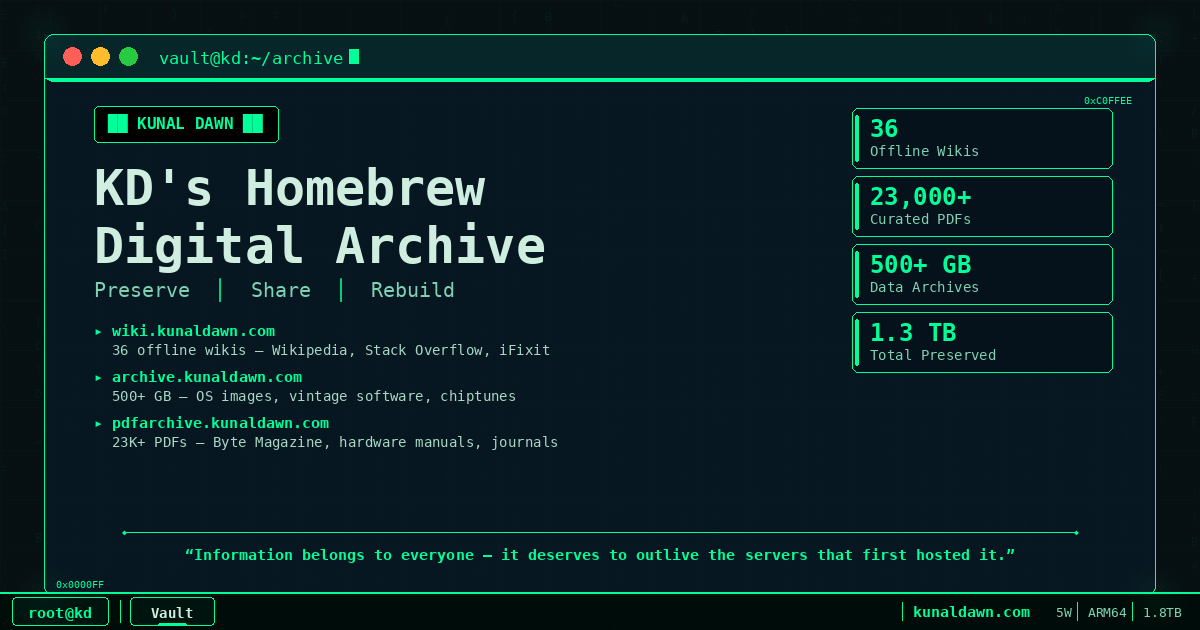
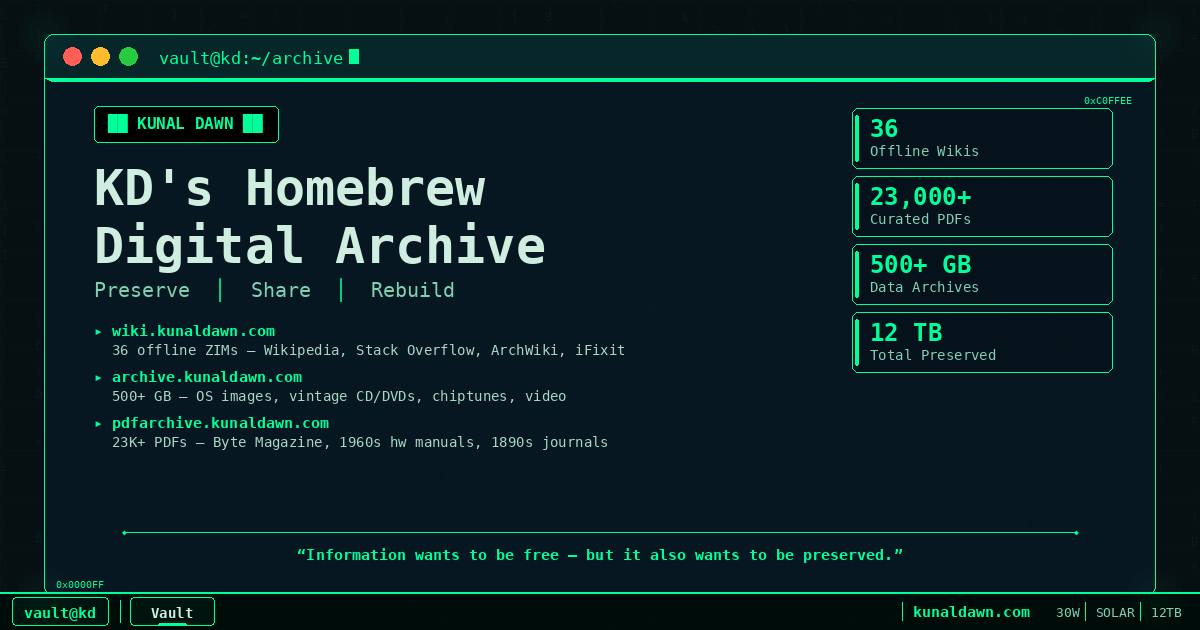
v20

diff --git a/static/index.html b/static/index.html
@@ -42,35 +42,43 @@
   <meta name="theme-color" content="#071013">
   <link rel="canonical" href="https://kunaldawn.com/">
 
+  <!-- Favicons (generated via generate_favicon.py) -->
+  <link rel="icon" href="/favicon.ico" sizes="any">
+  <link rel="icon" type="image/png" sizes="16x16" href="/favicon-16x16.png">
+  <link rel="icon" type="image/png" sizes="32x32" href="/favicon-32x32.png">
+  <link rel="icon" type="image/png" sizes="48x48" href="/favicon-48x48.png">
+  <link rel="apple-touch-icon" sizes="180x180" href="/apple-touch-icon.png">
+  <link rel="manifest" href="/site.webmanifest">
+
   <!-- Language declaration to prevent Chrome from detecting Japanese -->
   <meta http-equiv="content-language" content="en">
   <meta name="language" content="English">
 
   <!-- SEO Meta Tags -->
-  <meta name="description" content="KD's Homebrew Digital Archive — 1.3 TB of preserved knowledge running on a Raspberry Pi. 36 offline wikis (Wikipedia, Stack Overflow, iFixit), 23,000+ vintage computing PDFs (Byte Magazine, hardware manuals from the 1960s), and 500+ GB of OS images and software archives. Fighting link rot, one wget at a time.">
-  <meta name="keywords" content="digital archive, digital preservation, internet archival, offline wikipedia, offline stack overflow, vintage computing manuals, Byte Magazine archive, PDF archive, wiki archive, homebrew server, Raspberry Pi archive, open knowledge, knowledge preservation, iFixit offline, Project Gutenberg, data hoarding, digital history, self-hosted archive, personal archive project">
+  <meta name="description" content="KD's Homebrew Digital Archive — a home-grown mirror of the public internet. 12 TB of preserved knowledge served from a homelab cluster (2x Raspberry Pi 4 + N150 mini-PC) drawing ~30W off-grid solar. 36 offline wikis (Wikipedia, Stack Overflow, iFixit, Project Gutenberg), 23,000+ vintage computing PDFs (Byte Magazine, 1960s hardware manuals, MIT Press, science journals from the 1890s), 500+ GB of OS images, vintage software, and chiptunes. A shelf in a house, not a rack in a data centre. Fighting link rot, one wget at a time.">
+  <meta name="keywords" content="digital archive, digital preservation, internet archival, offline wikipedia, offline stack overflow, vintage computing manuals, Byte Magazine archive, PDF archive, wiki archive, abandonware preservation, homebrew server, homelab, Raspberry Pi cluster, N150 mini-PC, off-grid solar hosting, open knowledge, knowledge preservation, iFixit offline, Project Gutenberg, data hoarding, digital history, self-hosted archive, personal archive project, link rot">
   <meta name="author" content="Kunal Dawn">
   <meta name="robots" content="index, follow, max-snippet:-1, max-image-preview:large">
 
   <!-- Open Graph / Facebook -->
   <meta property="og:type" content="website">
   <meta property="og:url" content="https://kunaldawn.com/">
-  <meta property="og:title" content="KD's Homebrew Digital Archive — 1.3 TB of Knowledge Preserved on a Raspberry Pi">
-  <meta property="og:description" content="36 offline wikis. 23,000+ vintage computing PDFs. 500+ GB of OS images and software. A digital preservation project fighting link rot and bit decay — because information deserves to outlive the servers that first hosted it.">
+  <meta property="og:title" content="KD's Homebrew Digital Archive — 12 TB on a Homebrew Homelab">
+  <meta property="og:description" content="A home-grown mirror of the public internet. 36 offline wikis, 23,000+ vintage computing PDFs, 500+ GB of OS images and chiptunes — 12 TB total, served from a 2x RPi4 + N150 cluster on ~30W off-grid solar. A shelf in a house, not a rack in a data centre. Fighting link rot, one wget at a time.">
   <meta property="og:site_name" content="KD's Homebrew Archive">
   <meta property="og:image" content="https://kunaldawn.com/og-image.png">
   <meta property="og:image:width" content="1200">
   <meta property="og:image:height" content="630">
-  <meta property="og:image:alt" content="KD's Homebrew Digital Archive — Preserve, Share, Rebuild. 36 wikis, 23K+ PDFs, 500+ GB archives, 1.3 TB total.">
+  <meta property="og:image:alt" content="KD's Homebrew Digital Archive — Preserve, Share, Rebuild. 36 wikis, 23K+ PDFs, 500+ GB archives, 12 TB total.">
   <meta property="og:locale" content="en_US">
 
   <!-- Twitter -->
   <meta name="twitter:card" content="summary_large_image">
   <meta name="twitter:url" content="https://kunaldawn.com/">
-  <meta name="twitter:title" content="KD's Homebrew Digital Archive — 1.3 TB on a Raspberry Pi">
-  <meta name="twitter:description" content="36 offline wikis. 23K+ vintage computing PDFs. 500+ GB of digital artifacts. A homebrew preservation project fighting link rot — because information deserves to outlive its servers.">
+  <meta name="twitter:title" content="KD's Homebrew Digital Archive — 12 TB on a Homebrew Homelab">
+  <meta name="twitter:description" content="A home-grown mirror of the public internet. 36 offline wikis, 23K+ vintage computing PDFs, 500+ GB of digital artifacts — served from a 2x RPi4 + N150 cluster on ~30W. A shelf in a house, not a rack in a data centre. Fighting link rot, one wget at a time.">
   <meta name="twitter:image" content="https://kunaldawn.com/og-image.png">
-  <meta name="twitter:image:alt" content="KD's Homebrew Digital Archive — 36 wikis, 23K+ PDFs, 1.3 TB preserved">
+  <meta name="twitter:image:alt" content="KD's Homebrew Digital Archive — 36 wikis, 23K+ PDFs, 12 TB preserved">
 
   <!-- JSON-LD Structured Data -->
   <script type="application/ld+json">
@@ -85,8 +93,8 @@
         "name": "Kunal Dawn",
         "url": "https://kunaldawn.com"
       },
-      "description": "A homebrew digital preservation vault: 1.3 TB of offline wikis, vintage computing manuals, science journals, OS images, and software archives — curated and served from a single Raspberry Pi 4. Fighting link rot and bit decay since the bits started rotting.",
-      "keywords": "digital archive, digital preservation, internet archival, offline wikipedia, vintage computing, homebrew server, open knowledge, link rot, bit decay"
+      "description": "A home-grown mirror of the public internet — 12 TB of offline wikis, vintage computing manuals, science journals, OS images, and abandonware archives, curated and served from a homelab cluster (2x Raspberry Pi 4 + N150 mini-PC) drawing about 30 W off-grid solar. A shelf in a house, not a rack in a data centre. Fighting link rot, one wget at a time.",
+      "keywords": "digital archive, digital preservation, internet archival, offline wikipedia, vintage computing, abandonware, homelab, Raspberry Pi cluster, off-grid solar, open knowledge, link rot, bit decay"
     }
   </script>
   <script type="application/ld+json">
@@ -95,7 +103,7 @@
       "@type": "CollectionPage",
       "name": "KD's Homebrew Digital Archive",
       "url": "https://kunaldawn.com/",
-      "description": "1.3 TB of curated digital archives preserving knowledge from across the internet before it disappears. Offline wikis, vintage computing manuals, science journals, and software — open access, freely shared.",
+      "description": "12 TB of curated digital archives preserving knowledge from across the internet before it disappears. Offline wikis, vintage computing manuals, science journals, and software — open access, freely shared.",
       "about": {
         "@type": "Thing",
         "name": "Digital Preservation",
@@ -124,7 +132,7 @@
     }
   </script>
 
-  <title>KD's Homebrew Digital Archive — 1.3 TB of Knowledge Preserved on a Raspberry Pi</title>
+  <title>KD's Homebrew Digital Archive — 12 TB Preserved on a Home-grown Homelab</title>
   <link rel="preconnect" href="https://fonts.gstatic.com" crossorigin>
   <link href="https://fonts.googleapis.com/css2?family=Share+Tech+Mono&family=Inter:wght@300;400;600&display=swap"
     rel="stylesheet">
@@ -2953,7 +2961,7 @@
         </div>
         <div class="fx-footer"><span class="fx-chan">&gt; bbs/kd ·  node 01</span><span class="fx-timer" id="fx-timer">T+0.0s</span></div>
       </div>
-      <p class="entry-inventory sr-only">KD's Homebrew Digital Archive — 1.3 TB on a Raspberry Pi 4 ARM64 running on 5 watts. 23,000+ PDFs across 800 GB. 36 offline wikis including Wikipedia, Stack Overflow, ArchWiki, iFixit, and Project Gutenberg. 500 GB of operating system images, vintage software CD/DVD archives, chiptune collections, and curated video archives. Developed by Kunal Dawn with AI assistance.</p>
+      <p class="entry-inventory sr-only">KD's Homebrew Digital Archive — a home-grown mirror of the public internet. 12 TB of preserved knowledge served from a homelab cluster: two Raspberry Pi 4 nodes (8 GB) plus an N150 mini-PC (12 GB), on a 5-port switch fed from a single 65 W USB-C adapter. 4x 2 TB HDDs + 2x 2 TB SSDs hot, with a 12 TB external HDD for cold backup. About 30 watts total, engineered to run off-grid on a modest solar rig. 23,000+ PDFs across 800 GB. 36 offline wikis including Wikipedia, Stack Overflow, ArchWiki, iFixit, and Project Gutenberg. 500 GB of operating system images, vintage software CD/DVD archives, chiptune collections, and curated video archives. A shelf in a house, not a rack in a data centre. Developed by Kunal Dawn with AI assistance.</p>
       <h2 class="entry-gate-title" id="entry-gate-title">KD's Homebrew Digital Archive</h2>
 
       <div class="entry-terms" role="group" aria-label="Terms">
@@ -5048,12 +5056,13 @@
               playing:    ['*pounce*', 'Caught a byte!', '*bat bat bat*', 'Is that a cursor?!'],
               tips:       [
                 'Try the Wiki Archive for docs!',
-                'This vault runs on 5W of power',
+                'This archive runs on ~30W off-grid solar',
                 'Click me 3x for a surprise~',
                 'Everything here is archived via wget',
                 'The PDF archive has rare zines!',
                 'All content sourced from the open internet',
-                'Running on a Raspberry Pi 4!',
+                'Running on 2x RPi4 + N150 cluster!',
+                'A shelf in a house, not a rack in a DC',
                 'Data preserved, one bit at a time',
                 'Information wants to be free',
                 'Ctrl+Shift+I for hacker mode',

diff --git a/generate_favicon.py b/generate_favicon.py
@@ -1,0 +1,152 @@
+#!/usr/bin/env python3
+"""
+Generate the favicon set for KD's Homebrew Digital Archive.
+
+Requirements: pip install Pillow
+Font: DejaVu Sans Mono Bold (pre-installed on most Linux systems)
+
+Usage: python3 generate_favicon.py
+Output:
+  static/favicon.ico                    (multi-res: 16, 32, 48)
+  static/favicon-16x16.png
+  static/favicon-32x32.png
+  static/favicon-48x48.png
+  static/apple-touch-icon.png           (180x180)
+  static/android-chrome-192x192.png
+  static/android-chrome-512x512.png
+"""
+
+from PIL import Image, ImageDraw, ImageFont
+import os
+
+# ─── Config ───
+OUTDIR = os.path.join(os.path.dirname(__file__), "static")
+
+# Colors (match site CSS variables — see generate_og.py)
+BG     = (7, 16, 19)        # --bg: #071013
+PANEL  = (7, 24, 35)        # --panel: #071823
+NEON   = (0, 255, 153)      # --neon: #00ff99
+MUTED  = (127, 209, 179)    # --muted: #7fd1b3
+
+# Fonts
+FONT_BOLD_PATH = "/usr/share/fonts/truetype/dejavu/DejaVuSansMono-Bold.ttf"
+
+
+def bold(size):
+    return ImageFont.truetype(FONT_BOLD_PATH, size)
+
+
+def draw_mark(size):
+    """Render the "KD" monogram on a rounded neon-bordered panel at `size`x`size`.
+
+    Proportions (border thickness, padding, font scale) are derived from size
+    so the mark reads cleanly from 16px up to 512px. Below 24px the border is
+    dropped so the letters stay legible.
+    """
+    img = Image.new('RGBA', (size, size), (0, 0, 0, 0))
+    d = ImageDraw.Draw(img)
+
+    # Panel geometry
+    if size < 24:
+        pad = 0
+        border = 0
+        radius = max(1, size // 5)
+    else:
+        pad = max(1, round(size * 0.04))
+        border = max(1, round(size / 48))
+        radius = max(2, round(size * 0.2))
+
+    x0, y0 = pad, pad
+    x1, y1 = size - 1 - pad, size - 1 - pad
+
+    # Solid dark panel
+    d.rounded_rectangle([x0, y0, x1, y1], radius=radius, fill=PANEL)
+    # Neon border (skipped at very small sizes)
+    if border:
+        d.rounded_rectangle([x0, y0, x1, y1], radius=radius,
+                            outline=NEON, width=border)
+
+    # ─── "KD" glyph ───
+    # Target text width ~62% of inner width so the two letters sit in the
+    # middle without crowding the border.
+    inner_w = (x1 - x0) - 2 * border
+    inner_h = (y1 - y0) - 2 * border
+
+    text = "KD"
+    # Binary-search the largest font size that fits.
+    lo, hi = 6, size * 2
+    font = bold(lo)
+    tw = th = 0
+    bx = by = 0
+    while lo <= hi:
+        mid = (lo + hi) // 2
+        f = bold(mid)
+        bb = d.textbbox((0, 0), text, font=f)
+        w = bb[2] - bb[0]
+        h = bb[3] - bb[1]
+        target_w = inner_w * (0.72 if size < 24 else 0.56)
+        target_h = inner_h * (0.72 if size < 24 else 0.48)
+        if w <= target_w and h <= target_h:
+            font = f
+            tw, th, bx, by = w, h, bb[0], bb[1]
+            lo = mid + 1
+        else:
+            hi = mid - 1
+
+    # Center using actual bbox offsets (textbbox can return non-zero origin).
+    cx = (size - tw) // 2 - bx
+    cy = (size - th) // 2 - by
+    d.text((cx, cy), text, fill=NEON, font=font)
+
+    # ─── Accent: blinking-cursor underscore for larger sizes ───
+    # Adds a tiny terminal feel at sizes that can afford the detail.
+    # `cy` is the pen origin passed to d.text; the actual glyph bottom
+    # lands at `cy + by + th`, so anchor the cursor from there.
+    if size >= 96:
+        cur_w = max(2, size // 16)
+        cur_h = max(1, size // 64)
+        cur_x = (size - cur_w) // 2
+        cur_y = cy + by + th + max(2, size // 48)
+        if cur_y + cur_h < y1 - border:
+            d.rectangle([cur_x, cur_y, cur_x + cur_w, cur_y + cur_h], fill=NEON)
+
+    return img
+
+
+def save_png(img, name):
+    path = os.path.join(OUTDIR, name)
+    img.save(path, 'PNG', optimize=True)
+    kb = os.path.getsize(path) / 1024
+    print(f"  {name:<32s}  {img.size[0]}x{img.size[1]}  {kb:.1f} KB")
+
+
+def generate():
+    os.makedirs(OUTDIR, exist_ok=True)
+    print(f"Generating favicons in {OUTDIR}:")
+
+    targets = [
+        ("favicon-16x16.png",           16),
+        ("favicon-32x32.png",           32),
+        ("favicon-48x48.png",           48),
+        ("apple-touch-icon.png",        180),
+        ("android-chrome-192x192.png",  192),
+        ("android-chrome-512x512.png",  512),
+    ]
+    rendered = {}
+    for name, s in targets:
+        rendered[s] = draw_mark(s)
+        save_png(rendered[s], name)
+
+    # Multi-resolution .ico — PIL's ICO writer downscales from the base
+    # image, so we feed it the 48-px render and ask for 16/32/48 frames.
+    ico_path = os.path.join(OUTDIR, "favicon.ico")
+    rendered[48].save(
+        ico_path, format='ICO',
+        sizes=[(16, 16), (32, 32), (48, 48)],
+    )
+    kb = os.path.getsize(ico_path) / 1024
+    print(f"  {'favicon.ico':<32s}  multi-res   {kb:.1f} KB")
+
+
+if __name__ == "__main__":
+    generate()

diff --git a/generate_og.py b/generate_og.py
@@ -179,11 +179,11 @@ def generate():
     desc_font = mono(14)
     archives = [
         ("\u25B8 wiki.kunaldawn.com",
-         "36 offline wikis \u2014 Wikipedia, Stack Overflow, iFixit"),
+         "36 offline ZIMs \u2014 Wikipedia, Stack Overflow, ArchWiki, iFixit"),
         ("\u25B8 archive.kunaldawn.com",
-         "500+ GB \u2014 OS images, vintage software, chiptunes"),
+         "500+ GB \u2014 OS images, vintage CD/DVDs, chiptunes, video"),
         ("\u25B8 pdfarchive.kunaldawn.com",
-         "23K+ PDFs \u2014 Byte Magazine, hardware manuals, journals"),
+         "23K+ PDFs \u2014 Byte Magazine, 1960s hw manuals, 1890s journals"),
     ]
     for url_text, desc in archives:
         draw.text((left_x, ty), url_text, fill=NEON, font=url_font)
@@ -196,7 +196,7 @@ def generate():
         ("36", "Offline Wikis"),
         ("23,000+", "Curated PDFs"),
         ("500+ GB", "Data Archives"),
-        ("1.3 TB", "Total Preserved"),
+        ("12 TB", "Total Preserved"),
     ]
     box_w = 260
     box_h = 60
@@ -223,8 +223,8 @@ def generate():
     # ─── Quote ───
     qy = py + ph - 50
     quote_font = bold(15)
-    quote = ('\u201CInformation belongs to everyone \u2014 '
-             'it deserves to outlive the servers that first hosted it.\u201D')
+    quote = ('\u201CInformation wants to be free \u2014 '
+             'but it also wants to be preserved.\u201D')
     qw = draw.textlength(quote, font=quote_font)
     qx = px + (pw - qw) / 2
     # Decorative line above
@@ -294,7 +294,9 @@ def generate():
     tray_sep_bot = bar_y + bar_h - 10
 
     tray_x = W - 18
-    tray_items = ["30W", "ARM64", "12TB"]
+    # Tray reflects cluster-era stats: ~30W total draw, off-grid solar,
+    # 12 TB preserved. (ARM64 was inaccurate once the N150 x86 node joined.)
+    tray_items = ["30W", "SOLAR", "12TB"]
     for i, item in enumerate(reversed(tray_items)):
         iw = draw.textlength(item, font=tray_font)
         tray_x -= iw

diff --git a/main.go b/main.go
@@ -6,6 +6,7 @@ import (
 	"fmt"
 	"io/fs"
 	"log"
+	"mime"
 	"net/http"
 	"os"
 	"path/filepath"
@@ -196,6 +197,11 @@ func main() {
 	}
 
 	staticDir := "./static"
+
+	// Register MIME types Go's mime package doesn't know by default.
+	// X-Content-Type-Options: nosniff forces browsers to honour these, so
+	// the PWA manifest needs the correct type or installability breaks.
+	_ = mime.AddExtensionType(".webmanifest", "application/manifest+json")
 
 	// Initialize systems
 	initVisitDB(dataDir)